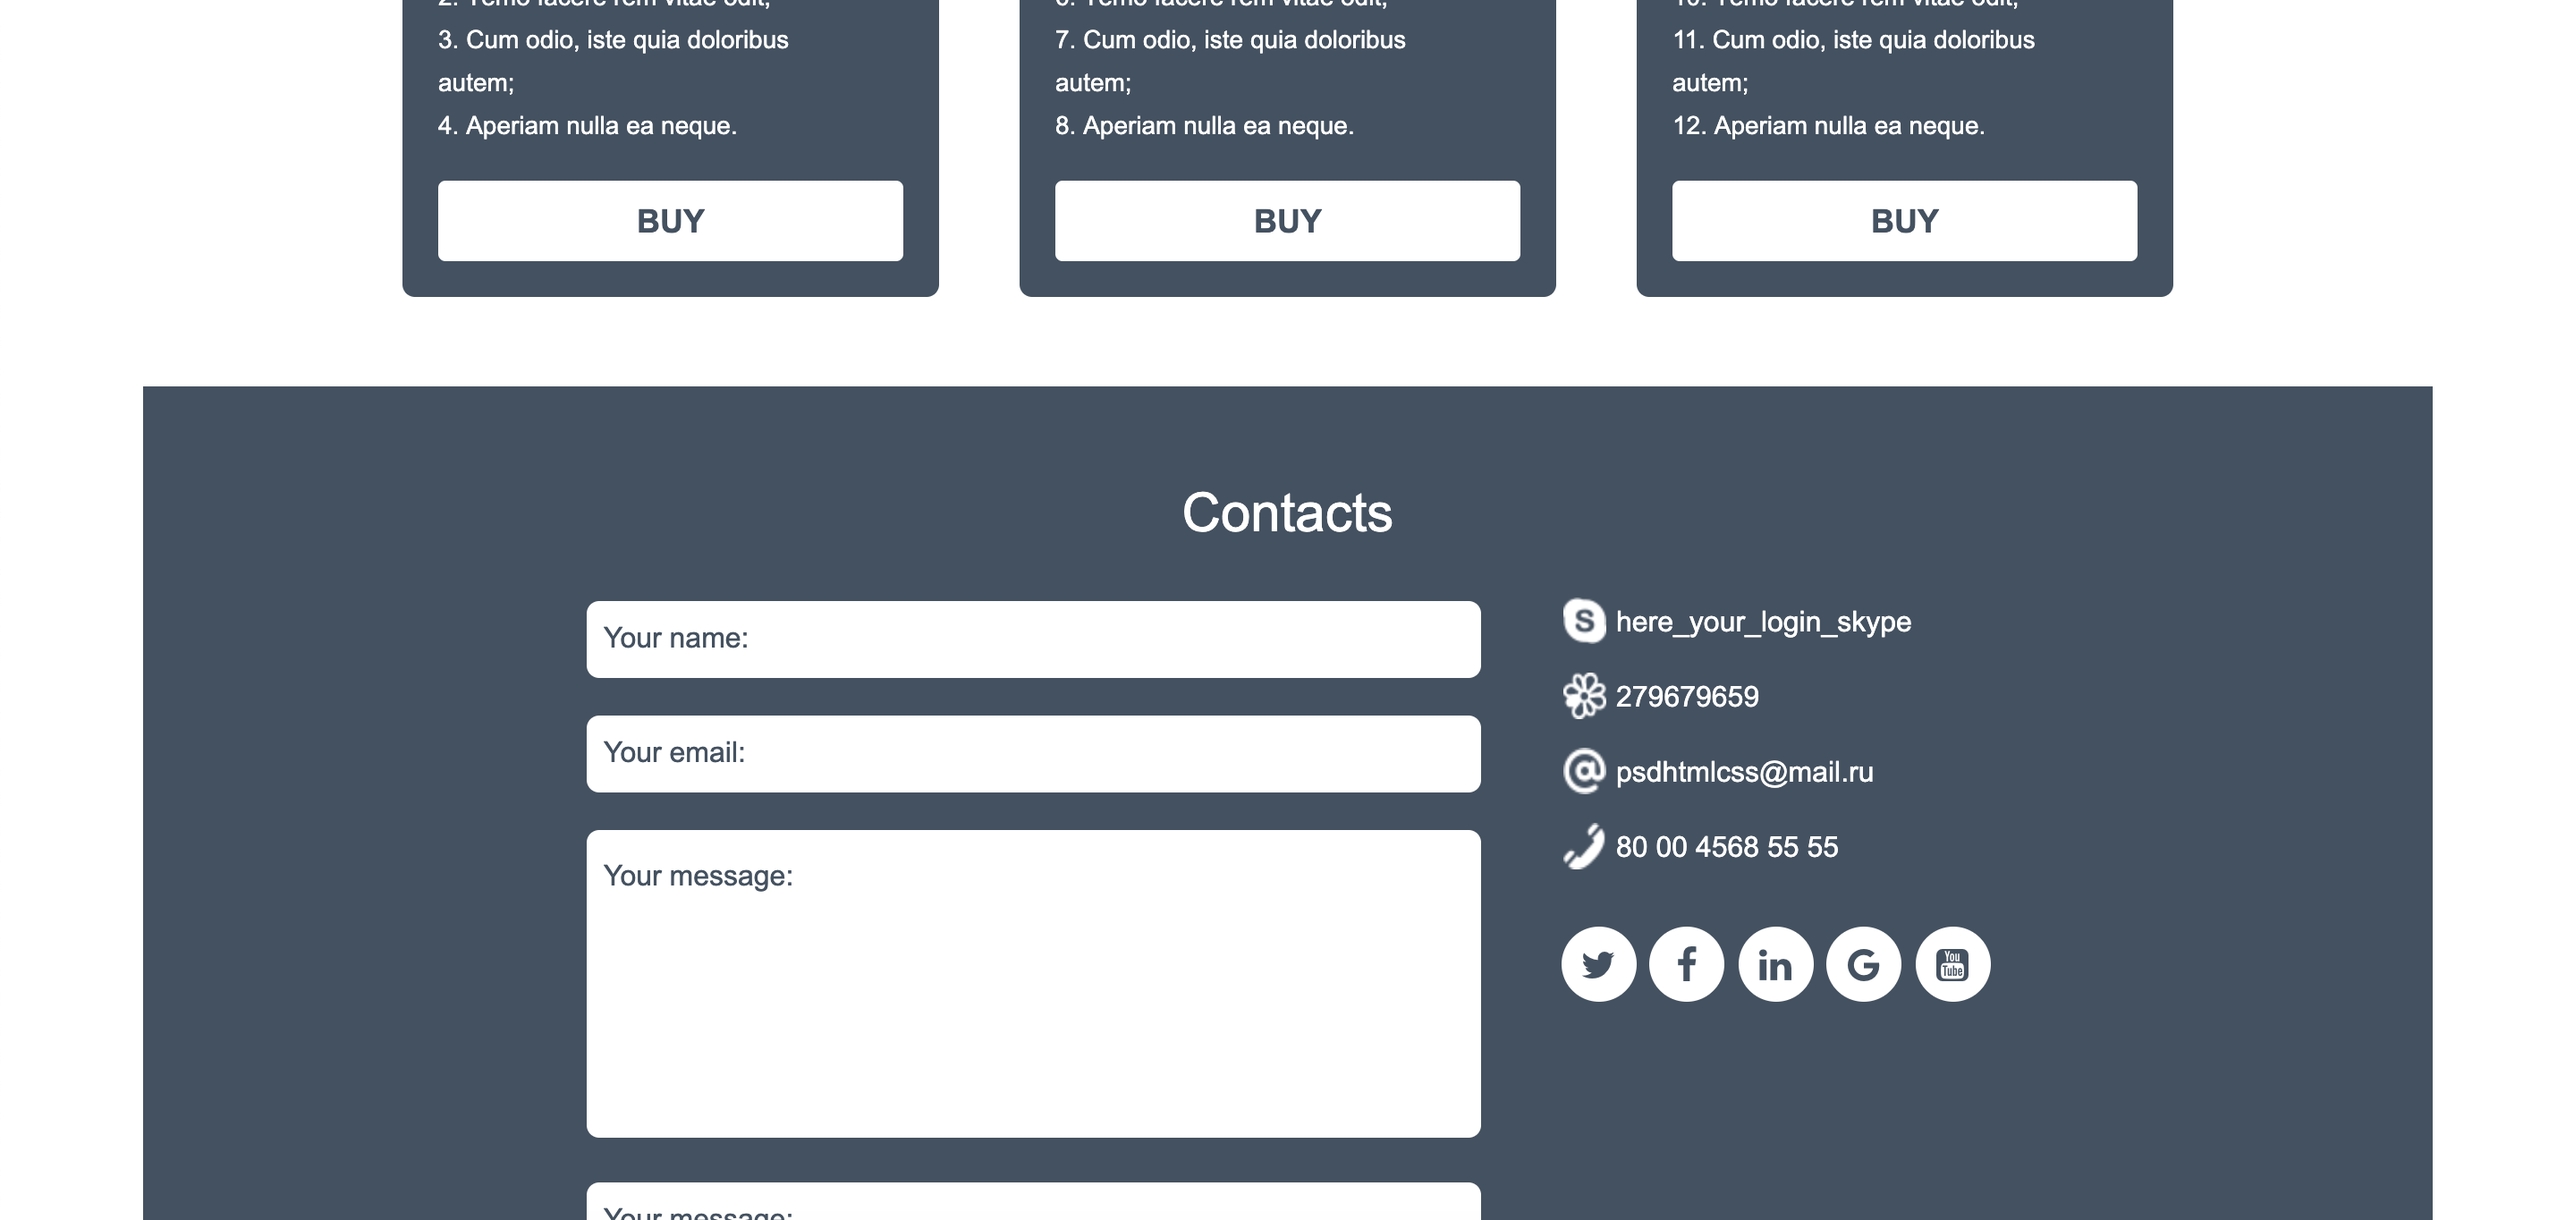
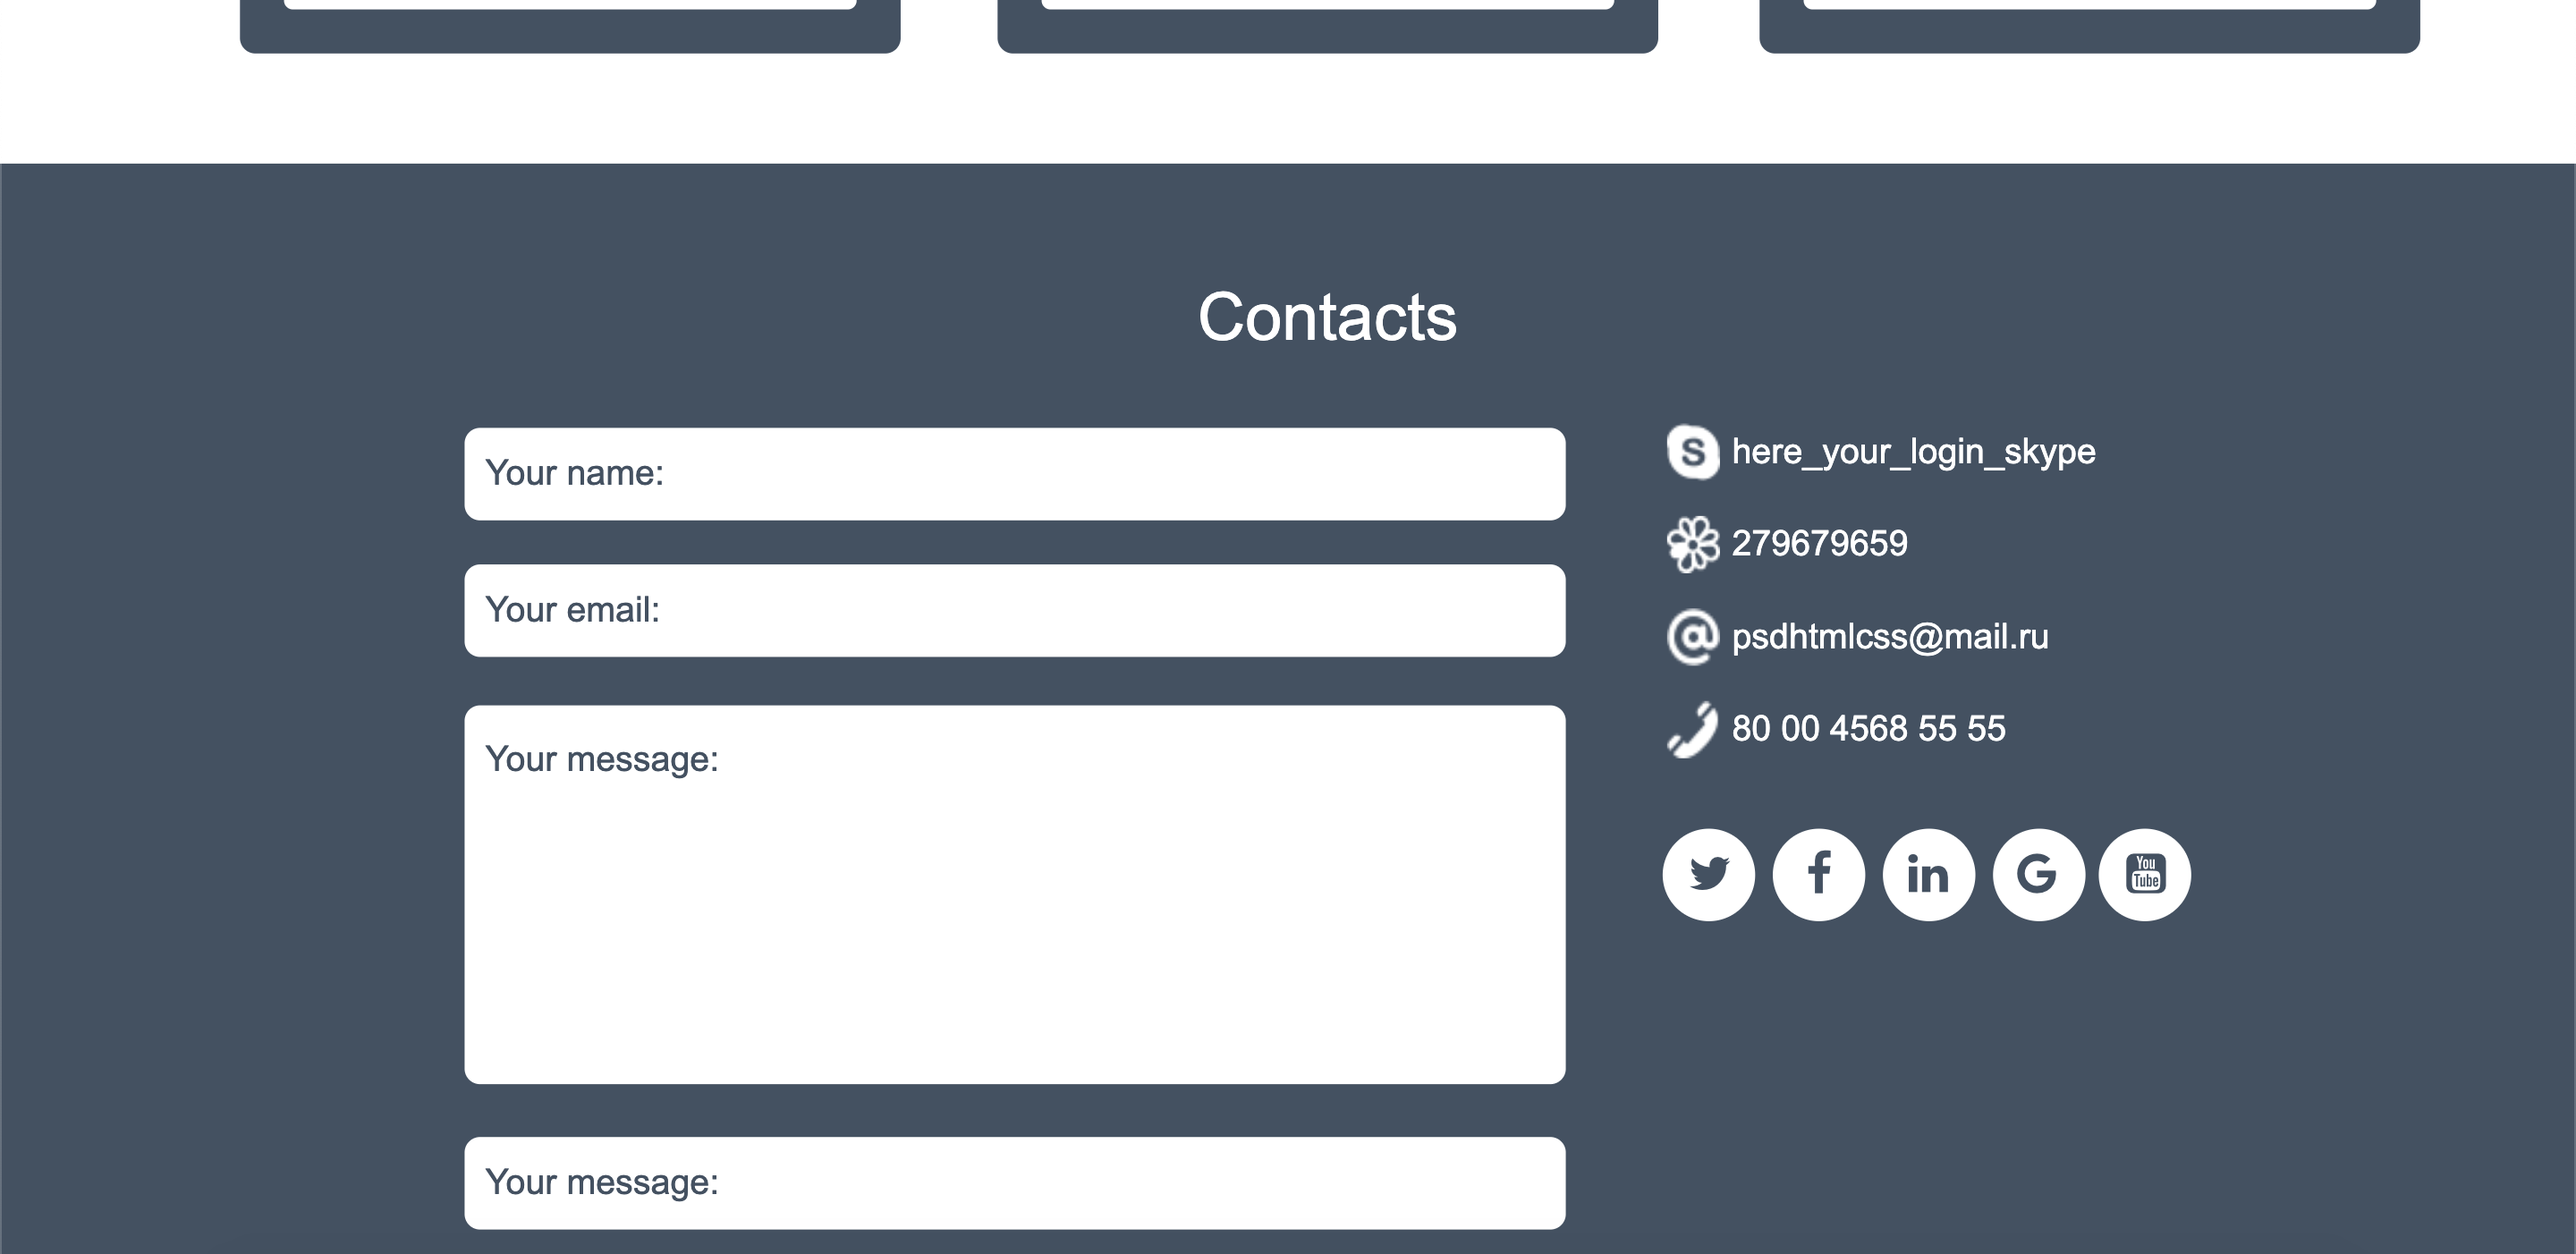
new

diff --git a/css/style.less b/css/style.less
@@ -5,9 +5,10 @@
 
 
 // базовый цвет
+// @baseColor: #FFFFFF;
 @baseColor: #FFFFFF;
-@colorButton: #6A5ACD;
-@colorText: #2F4F4F;
+@colorButton: #3d3bff;
+@colorText: #000000;
 
 // переменная для основного текста страницы
 @mainFont: 'Montserrat', sans-serif;
@@ -16,7 +17,12 @@
 
 // добавлять эффект наведения и эффект нажатия всем КНОПКАМ, переключателям, логатипам, элементам меню!
 .project-wrapper:hover {
-  color: @colorText + #444;
+  border-radius: 0;
+  outline: 1px solid @colorText;
+}
+
+.project-wrapper:hover .project-description {
+  color: @colorButton;
 }
 
 .project-wrapper:active {
@@ -38,7 +44,8 @@
 .header {
   width: 100%;
   min-height: 100px;
-  background-color: @baseColor;
+  // background-color: @baseColor - #111;
+  border-bottom: 1px solid @colorText;
   display: flex;
   flex-direction: row;
   justify-content: center;
@@ -57,16 +64,26 @@
 .main {
   width: 100%;
   min-height: 700px;
-  background-color: @baseColor - #111;
+  // background-color: @baseColor;
   padding: 30px 15px 30px 15px;
+  display: flex;
+  flex-direction: row;
+  justify-content: center;
+  align-items: flex-start;
+  flex-wrap: wrap;
+  align-content: flex-start;
 }
 
 .project-wrapper {
-  width: 100%;
-  border: 1px solid @colorText;
-  padding: 5px;
-  margin: 0 0 10px 0;
-  color: @colorText;
+  width: 45%;
+  background-color: @baseColor - #111;
+  padding: 5px 0 0 0;
+  // border: 1px solid @colorText;
+  // border-radius: 15px 0 15px 0;
+  // hidden - Отображается только область внутри элемента, остальное будет скрыто.
+  overflow: hidden;
+  margin: 0 15px 15px 0;
+  color: @colorText + #111;
   font-family: @mainFont;
   text-decoration: none;
   display: flex;
@@ -75,8 +92,26 @@
   align-items: center;
 }
 
+.screenshot {
+  width: 100%;
+  height: 200px;
+  background-color: #fff;
+  background-size: cover;
+  background-repeat: no-repeat;
+  background-position: center;
+}
+
+.layout-1 {
+  background-image: url(../img/1-GB-HTML5_CSS3-layout-11.10.19.png);
+}
+
+.layout-2 {
+  background-image: url(../img/2-GB-HTML5_CSS3-Waxom_layout-061119.jpg);
+}
+
 .project-title {
   width: 100%;
+  font-size: 27px;
   margin: 0 0 5px 0;
   text-align: center;
 }
@@ -85,12 +120,14 @@
   width: 100%;
   margin: 0 0 5px 0;
   text-align: center;
+  color: @colorText;
 }
 
 .footer {
   width: 100%;
   min-height: 100px;
-  background-color: @baseColor;
+  // background-color: @baseColor - #111;
+  border-top: 1px solid @colorText;
   display: flex;
   flex-wrap: wrap;
   flex-direction: row;
@@ -117,4 +154,16 @@
   fill: @colorButton;
   width: 30px;
   height: 30px;
+}
+
+@media (max-width: 767.98px) {
+
+  .main {
+    flex-direction: column;
+  }
+
+  .project-wrapper {
+    width: 100%;
+  }
+
 }

diff --git a/css/style.css b/css/style.css
@@ -2,10 +2,14 @@
   box-sizing: border-box;
 }
 .project-wrapper:hover {
-  color: #739393;
+  border-radius: 0;
+  outline: 1px solid #000000;
+}
+.project-wrapper:hover .project-description {
+  color: #3d3bff;
 }
 .project-wrapper:active {
-  color: #0d2d2d;
+  color: #000000;
 }
 .container {
   margin: 0 auto;
@@ -14,7 +18,7 @@
 .header {
   width: 100%;
   min-height: 100px;
-  background-color: #FFFFFF;
+  border-bottom: 1px solid #000000;
   display: flex;
   flex-direction: row;
   justify-content: center;
@@ -26,20 +30,26 @@
   text-decoration: none;
   font-family: 'Comfortaa', cursive;
   font-size: 39px;
-  color: #6A5ACD;
+  color: #3d3bff;
 }
 .main {
   width: 100%;
   min-height: 700px;
-  background-color: #eeeeee;
   padding: 30px 15px 30px 15px;
+  display: flex;
+  flex-direction: row;
+  justify-content: center;
+  align-items: flex-start;
+  flex-wrap: wrap;
+  align-content: flex-start;
 }
 .project-wrapper {
-  width: 100%;
-  border: 1px solid #2F4F4F;
-  padding: 5px;
-  margin: 0 0 10px 0;
-  color: #2F4F4F;
+  width: 45%;
+  background-color: #eeeeee;
+  padding: 5px 0 0 0;
+  overflow: hidden;
+  margin: 0 15px 15px 0;
+  color: #111111;
   font-family: 'Montserrat', sans-serif;
   text-decoration: none;
   display: flex;
@@ -47,8 +57,23 @@
   justify-content: center;
   align-items: center;
 }
+.screenshot {
+  width: 100%;
+  height: 200px;
+  background-color: #fff;
+  background-size: cover;
+  background-repeat: no-repeat;
+  background-position: center;
+}
+.layout-1 {
+  background-image: url(../img/1-GB-HTML5_CSS3-layout-11.10.19.png);
+}
+.layout-2 {
+  background-image: url(../img/2-GB-HTML5_CSS3-Waxom_layout-061119.jpg);
+}
 .project-title {
   width: 100%;
+  font-size: 27px;
   margin: 0 0 5px 0;
   text-align: center;
 }
@@ -56,11 +81,12 @@
   width: 100%;
   margin: 0 0 5px 0;
   text-align: center;
+  color: #000000;
 }
 .footer {
   width: 100%;
   min-height: 100px;
-  background-color: #FFFFFF;
+  border-top: 1px solid #000000;
   display: flex;
   flex-wrap: wrap;
   flex-direction: row;
@@ -70,14 +96,22 @@
 .security {
   font-family: 'Comfortaa', cursive;
   font-size: 14px;
-  color: #2F4F4F;
+  color: #000000;
   margin: 0 15px 0 15px;
 }
 .a-contacts {
   text-decoration: none;
 }
 .svg-contacts {
-  fill: #6A5ACD;
+  fill: #3d3bff;
   width: 30px;
   height: 30px;
+}
+@media (max-width: 767.98px) {
+  .main {
+    flex-direction: column;
+  }
+  .project-wrapper {
+    width: 100%;
+  }
 }

diff --git a/index.html b/index.html
@@ -23,13 +23,15 @@
 
   <main class="main">
     <a href="projects/1) GB-HTML5_CSS3-layout-11.10.19/index.html" class="project-wrapper">
-      <h1 class="project-title">1) GB-HTML5_CSS3-Simple_layout</h1>
-      <p class="project-description">One of the first full pages I made; Layout of October 11, 2019;</p>
+      <h1 class="project-title">1) The easiest layout</h1>
+      <p class="project-description">Один из первых учебных макетов <b>HTML5, CSS3</b>; <i>(Октябрь 2019)</i></p>
+      <div class="screenshot layout-1"></div>
     </a>
     <!-- /.project-wrapper -->
     <a href="projects/2) GB-HTML5_CSS3-Waxom_layout-06.11.19/index.html" class="project-wrapper">
-      <h1 class="project-title">2) GB-HTML5_CSS3-Waxom_layout-06.11.19</h1>
-      <p class="project-description">Lorem ipsum dolor, sit amet consectetur adipisicing elit. Magni, quidem.</p>
+      <h1 class="project-title">2) Waxom layout</h1>
+      <p class="project-description"><b>HTML5, CSS3, адаптивная верстка</b> <i>(Ноябрь 2019)</i></p>
+      <div class="screenshot layout-2"></div>
     </a>
     <!-- /.project-wrapper -->
     <a href="projects/3) GB-JS-lv1-les7-CANVAS/index.html" class="project-wrapper">
